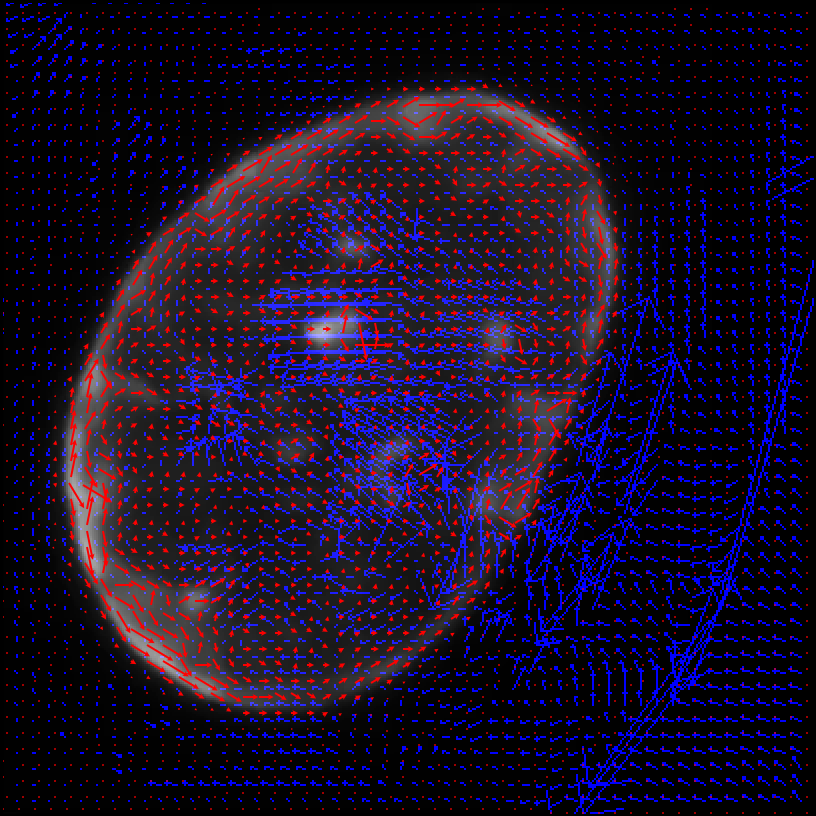
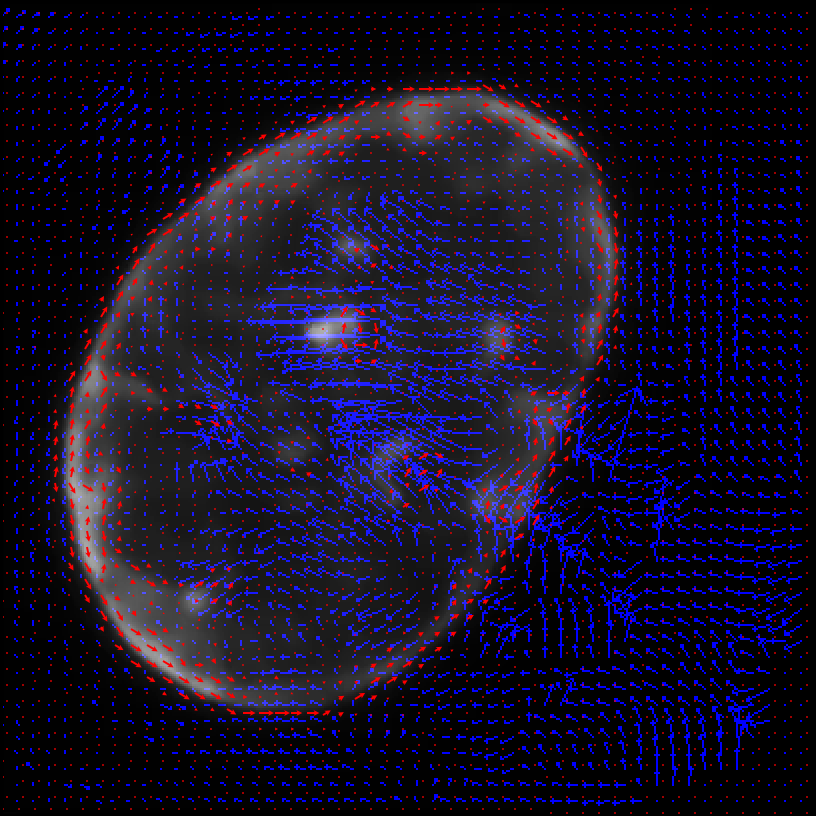
Implemented various vector scaling changes. Added a plot of displacement magnitudes versus intensity magnitudes. Generated new images and heatmaps.

diff --git a/lamin_role.py b/lamin_role.py
@@ -21,7 +21,7 @@ from mpl_toolkits.axes_grid1 import make_axes_locatable
 import warnings
 
 # Importing required custom functions
-from lamin_fxns import orientation_analysis,find_avg_px_intensity,pad_img,force_3d,dot_product,ratio_norm,divide_magnitudes
+from lamin_fxns import *
 
 # ---------- Output Parameters ----------
 # Rotate physical gradient vectors 90 degrees?
@@ -124,7 +124,7 @@ seventh_angle_coords = ((3,1),(4,6))
 angle_coords = (first_angle_coords,second_angle_coords,third_angle_coords,fourth_angle_coords,fifth_angle_coords,sixth_angle_coords,seventh_angle_coords)
 
 # Parameters for Lucas-Kanade optical flow
-lk_params = dict(winSize = (45,45), maxLevel = 30, criteria = (cv2.TERM_CRITERIA_EPS | cv2.TERM_CRITERIA_COUNT, 10, 0.03))
+lk_params = dict(winSize = (30,30), maxLevel = 30, criteria = (cv2.TERM_CRITERIA_EPS | cv2.TERM_CRITERIA_COUNT, 3, 0.03))
 
 # The video feed is read in as a VideoCapture object
 cap = cv2.VideoCapture(sys.argv[1])
@@ -331,7 +331,7 @@ width = len(first_frame)
 height = len(first_frame[0])
 
 # Creates a video file for saving output at 20 fps (can change at will)
-video = cv2.VideoWriter("result.mov",cv2.VideoWriter_fourcc(*'avc1'),20,(width,height))
+video = cv2.VideoWriter("result.mov",cv2.VideoWriter_fourcc(*'mp4v'),1,(width,height))
 video.write(first_frame)
 
 counter = 2
@@ -400,7 +400,7 @@ while(cap.isOpened()):
     cv2.imshow(f'HOG Default: frame {counter}', hog_image_rescaled)
     cv2.waitKey(img_delay)
 
-    # Store the "previous" set of vectors for later use to genearte the heatmap
+    # Store the "previous" set of vectors for later use to generate the heatmap
     heatmap_vectors = vectors
 
     # ---------- Image cell manipulation ----------
@@ -617,6 +617,22 @@ while(cap.isOpened()):
                 for b in range(px_per_cell*j,(px_per_cell*j)+px_per_cell):
                     display_result[a][b] = normalized_result[i][j]
 
+    # ---------- Vector Magnitude Plot ----------
+    # Compute vector magnitudes
+    physical_mag,temporal_mag = compute_magnitudes(physical=heatmap_vectors,temporal=disp_vectors)
+
+    # Initialize a new figure
+    plt.figure()
+
+    # Plot the displacement mangitudes against the intensity magnitudes
+    plt.plot(physical_mag,temporal_mag,linestyle="None",marker=".",markersize=3.0)
+
+    # Set plot properties
+    plt.title("Displacement versus Intensity")
+    plt.xlabel("Intensity")
+    plt.ylabel("Displacement")
+    # ---------- Vector Magnitude Plot ----------
+
     # ---------- Heatmap generation ----------
     # Initialize a new figure
     plt.figure()
@@ -678,8 +694,8 @@ while(cap.isOpened()):
     plt.quiver(
         old_x_positions,      # X coordinate of start point
         old_y_positions,      # Y coordinate of start point
-        3*old_dx_vals,        # X-direction movement from start point to end point
-        3*old_dy_vals,        # Y-direction movement from start point to end point
+        old_dx_vals,        # X-direction movement from start point to end point
+        old_dy_vals,        # Y-direction movement from start point to end point
         color='r',            # Vector colour (red)
         scale_units="dots",   # Vector scaling unit (pixels)
         scale=0.4,            # Vector scaling factor

diff --git a/lamin_fxns.py b/lamin_fxns.py
@@ -90,6 +90,31 @@ def divide_magnitudes(physical, temporal):
 
 	return magnitude_quotient
 
+def compute_magnitudes(physical, temporal):
+	"""
+	# Compute magnitudes of the vectors in each array.
+	"""
+	# Verify vector array format similarity
+	if len(physical) != len(temporal):
+		raise IndexError("Vector arrays must be the same length.")
+
+	# Initialize empty arrays for the magnitudes
+	magnitude_physical = np.zeros(len(physical))
+	magnitude_temporal = np.zeros(len(temporal))
+
+	# Compute the magnitudes of each vector
+	for i in range(len(physical)):
+		phys_x = physical[i][1][0] - physical[i][0][0]
+		phys_y = physical[i][1][1] - physical[i][0][1]
+		magnitude_physical[i] = math.sqrt((phys_x**2)+(phys_y**2))
+		
+		temp_x = temporal[i][1][0] - temporal[i][0][0]
+		temp_y = temporal[i][1][1] - temporal[i][0][1]
+		magnitude_temporal[i] = math.sqrt((temp_x**2)+(temp_y**2))
+
+	# Return the magnitudes
+	return magnitude_physical,magnitude_temporal
+
 
 def ratio_norm(physical, temporal, inverted):
 	"""
